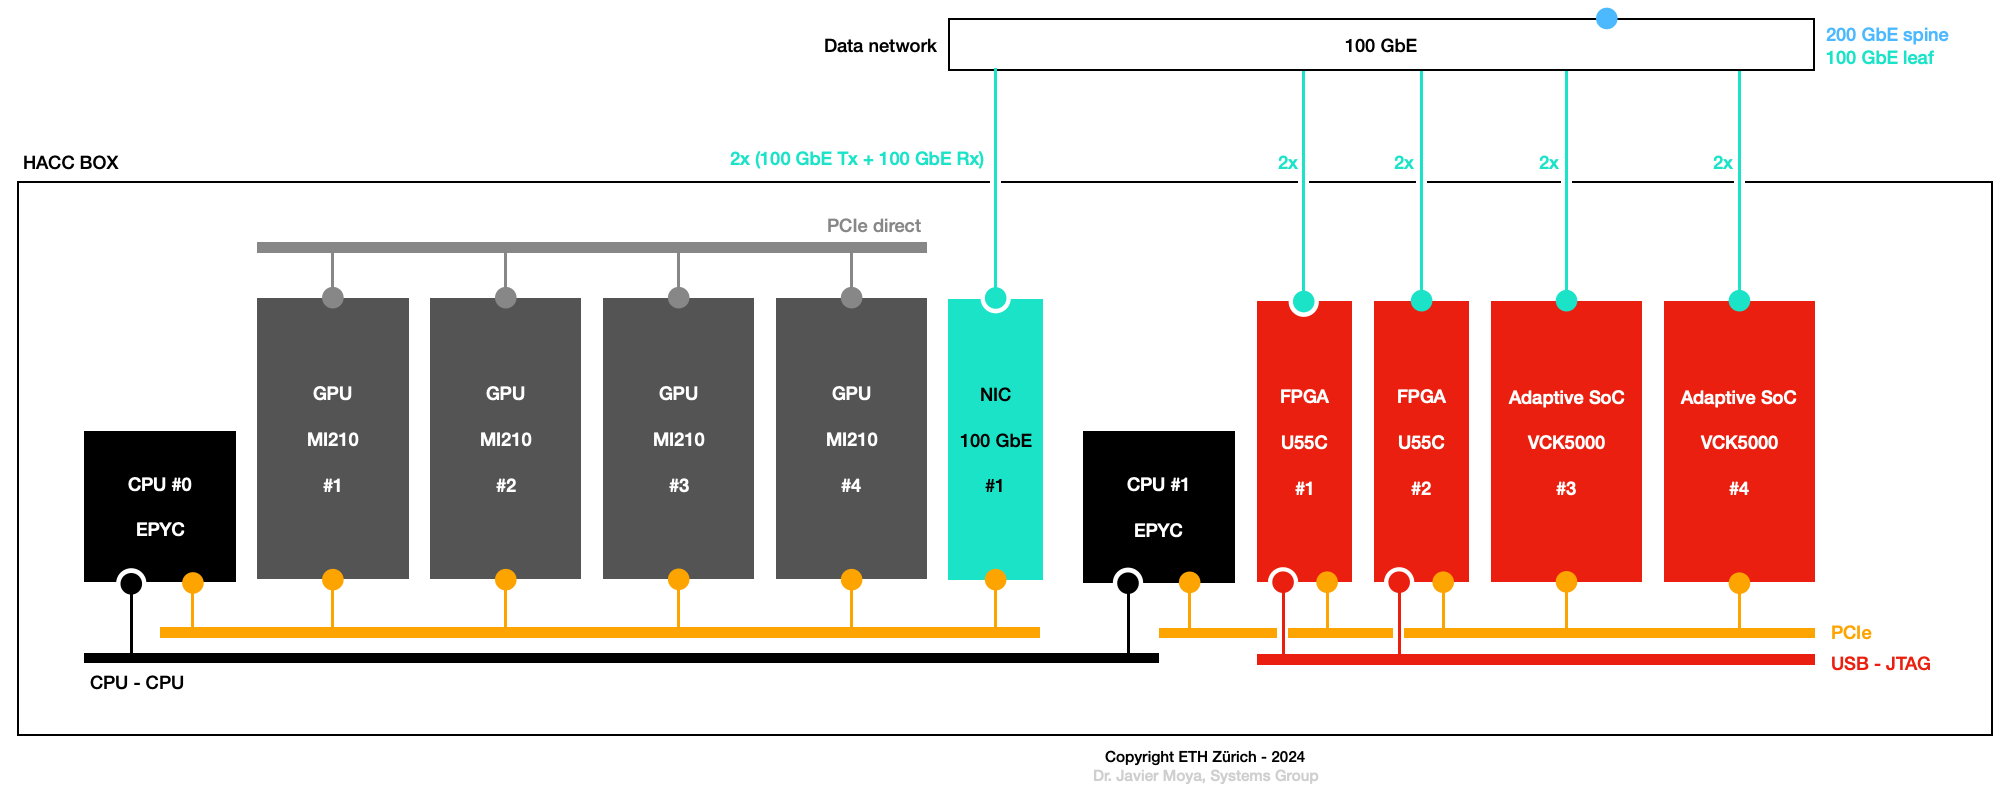
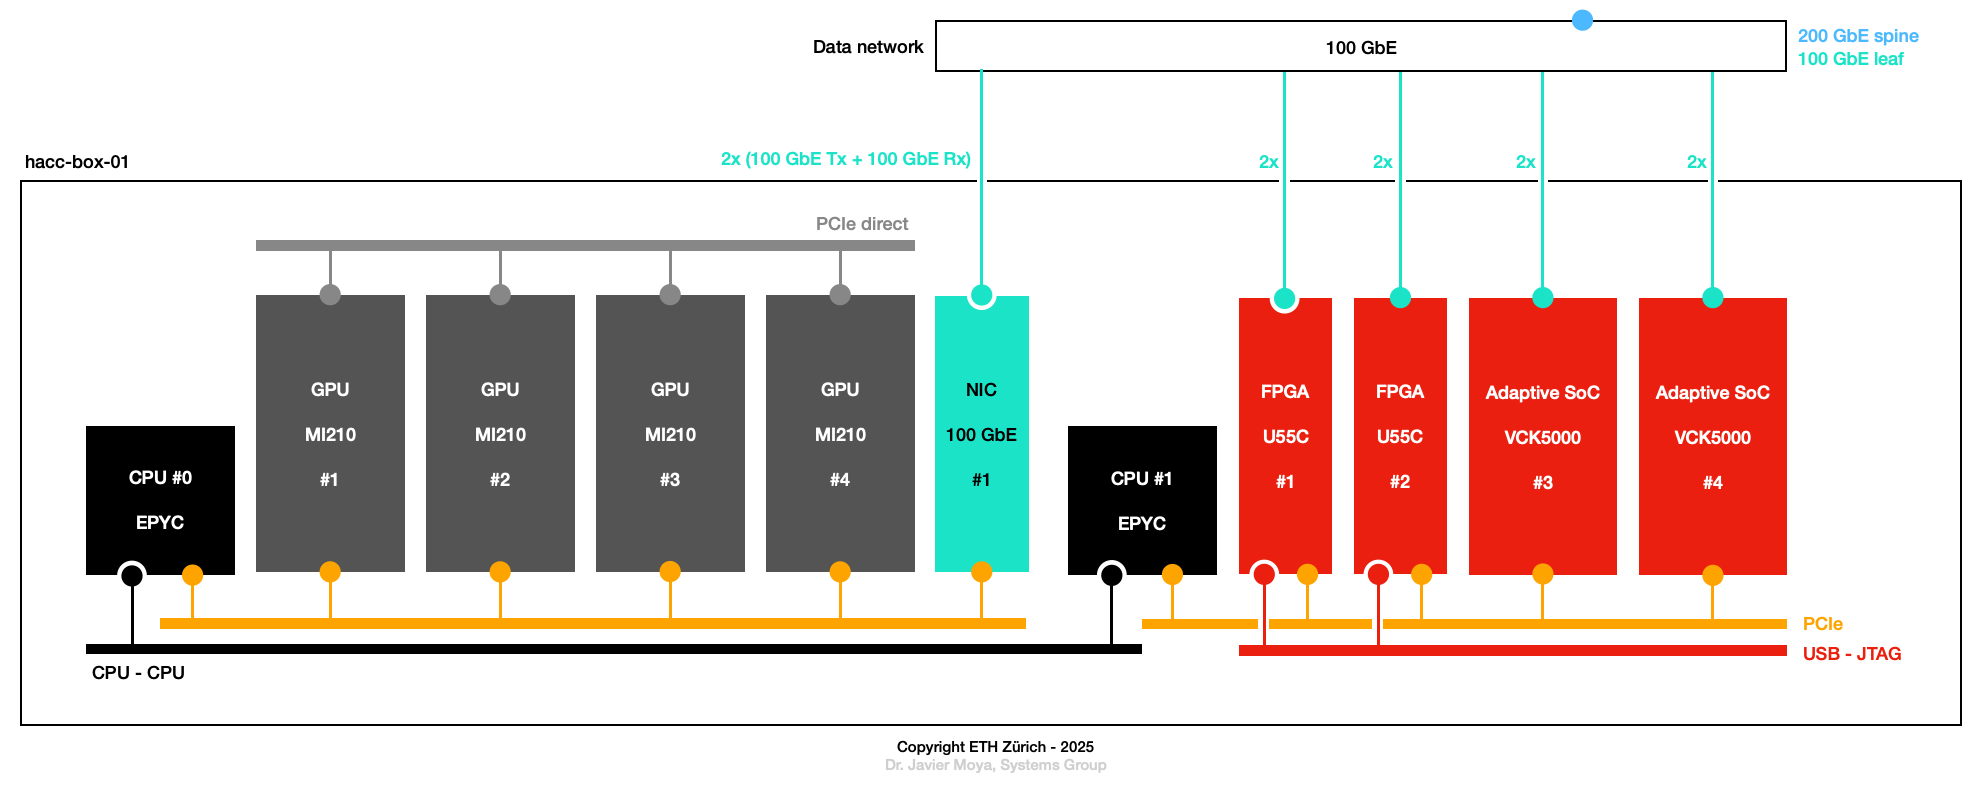
Update drawing

diff --git a/docs/infrastructure.md b/docs/infrastructure.md
@@ -7,8 +7,8 @@
 # Infrastructure
 The ETHZ-HACC comprises build and deployment servers. **Build servers are dedicated to development and bitstream compilation,** providing a robust environment for software and hardware design. **Deployment servers,** on the other hand, host one or more acceleration devices, enabling **high-performance execution of workloads.** This separation ensures an efficient workflow, allowing developers to compile and test their applications on build servers before deploying them to accelerator-equipped machines for execution.
 
-![ETHZ-HACC infrastructure. This diagram is for illustrative purposes and may be subject to change. Please refer to the table below for the specific server configuration](../imgs/infrastructure.png "ETHZ-HACC infrastructure. This diagram is for illustrative purposes and may be subject to change. Please refer to the table below for the specific server configuration")
-*ETHZ-HACC infrastructure. This diagram is for illustrative purposes and may be subject to change. Please refer to the table below for the specific server configuration*
+![ETHZ-HACC infrastructure. This diagram is for illustrative purposes and may be subject to change. Please refer to the table below for the specific server configuration.](../imgs/infrastructure.png "ETHZ-HACC infrastructure. This diagram is for illustrative purposes and may be subject to change. Please refer to the table below for the specific server configuration.")
+*ETHZ-HACC infrastructure. This diagram is for illustrative purposes and may be subject to change. Please refer to the table below for the specific server configuration.*
 
 ## Build servers
 Build servers are dedicated for development and bitstream compilation purposes. Multiple users can access this machine simultaneously **without booking it first.** Please only use the HACC build servers if you do not have access to similar resources at your research institution: too many users running large jobs on this machine will likely cause builds to run slowly—or sometimes to fail. Also, avoid using the build servers for debugging or simulating your hardware.
@@ -158,10 +158,8 @@ The USB - JTAG connection allows granted users to interact directly with the FPG
 ### HACC boxes architecture
 The following picture details the architecture of the one of our heterogeneous servers (specifically, hacc-box-01), which is equipped with 2x EPYC Milan CPUs, 4x [Instinct MI210 GPUs,](https://www.amd.com/system/files/documents/amd-instinct-mi210-brochure.pdf) 1x 100 GbE NIC, 2x [Alveo U55C FPGAs,](https://www.xilinx.com/applications/data-center/high-performance-computing/u55c.html) and 2x [Versal VCK5000 Adaptive SoCs](https://www.xilinx.com/products/boards-and-kits/vck5000.html).
 
-![Server architecture of hacc-box-01.](../imgs/hacc-boxes.png "Server architecture of hacc-box-01.")
-*Server architecture of hacc-box-01.*
-
-This diagram can also serve as a reference for the architecture of other HACC boxes.
+![Server architecture of hacc-box-01. This diagram can also serve as a reference for the architecture of other HACC boxes.](../imgs/hacc-boxes.png "Server architecture of hacc-box-01. This diagram can also serve as a reference for the architecture of other HACC boxes.")
+*Server architecture of hacc-box-01. This diagram can also serve as a reference for the architecture of other HACC boxes.*
 
 ## Networking
 
